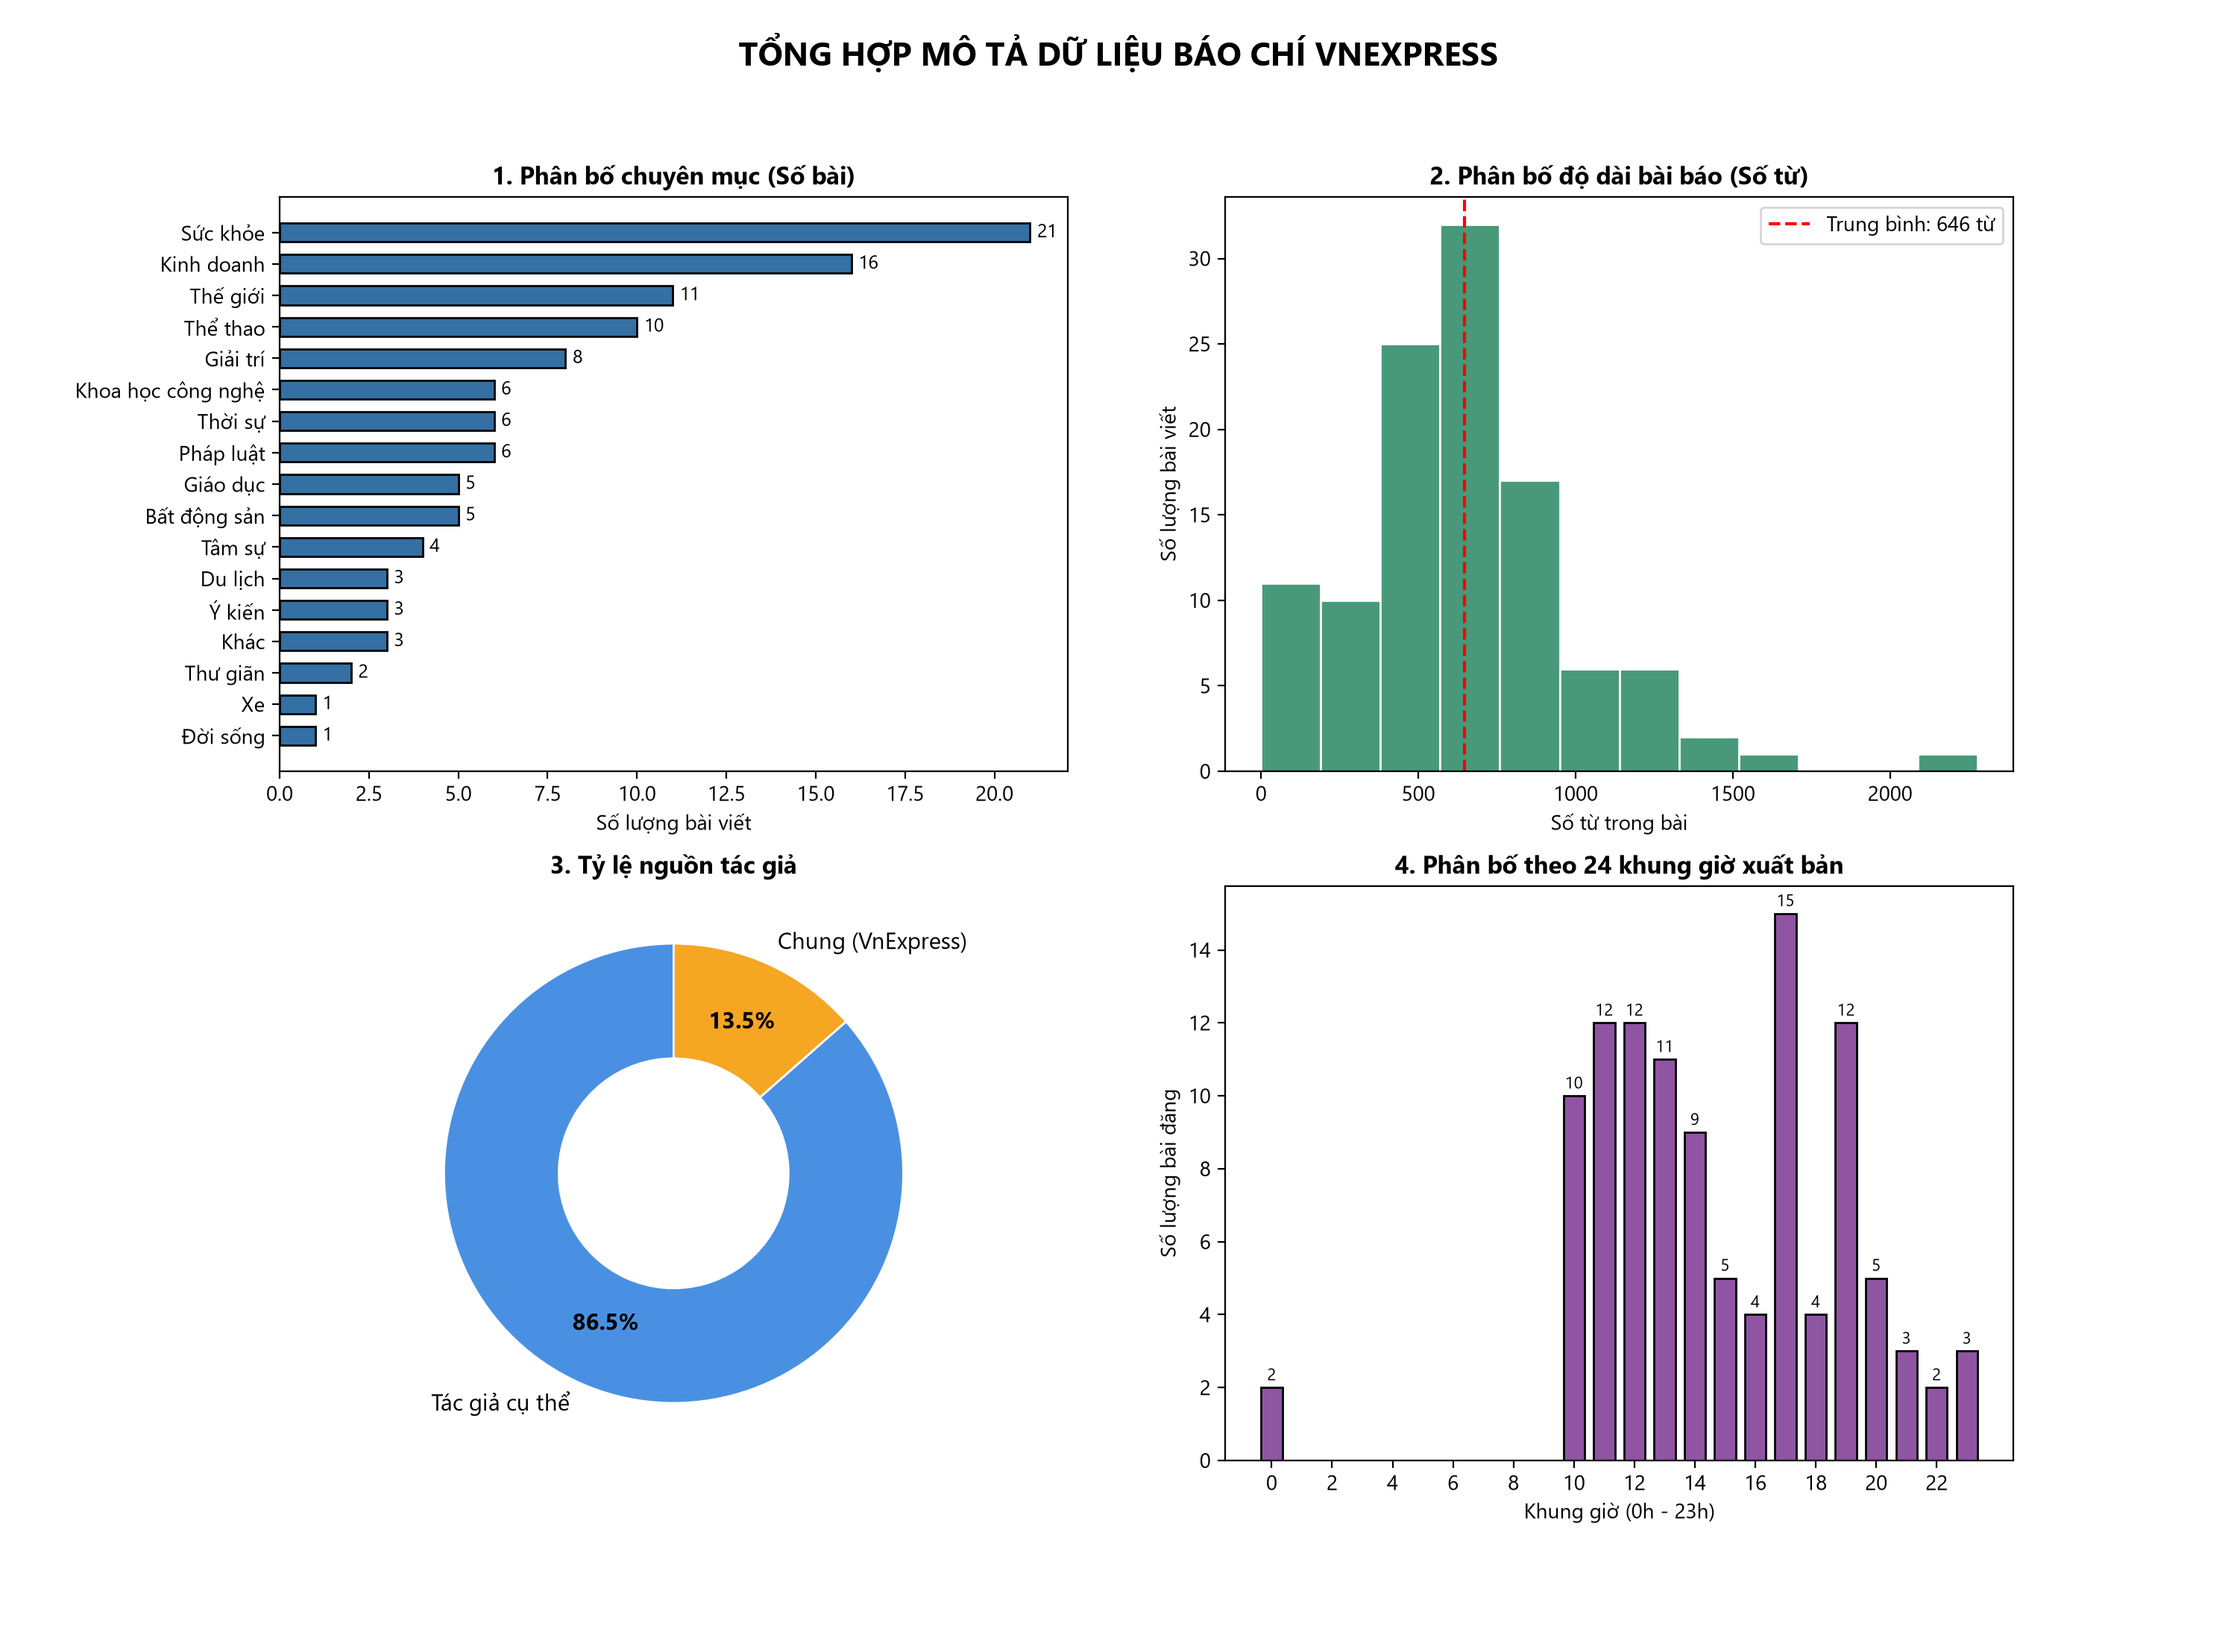
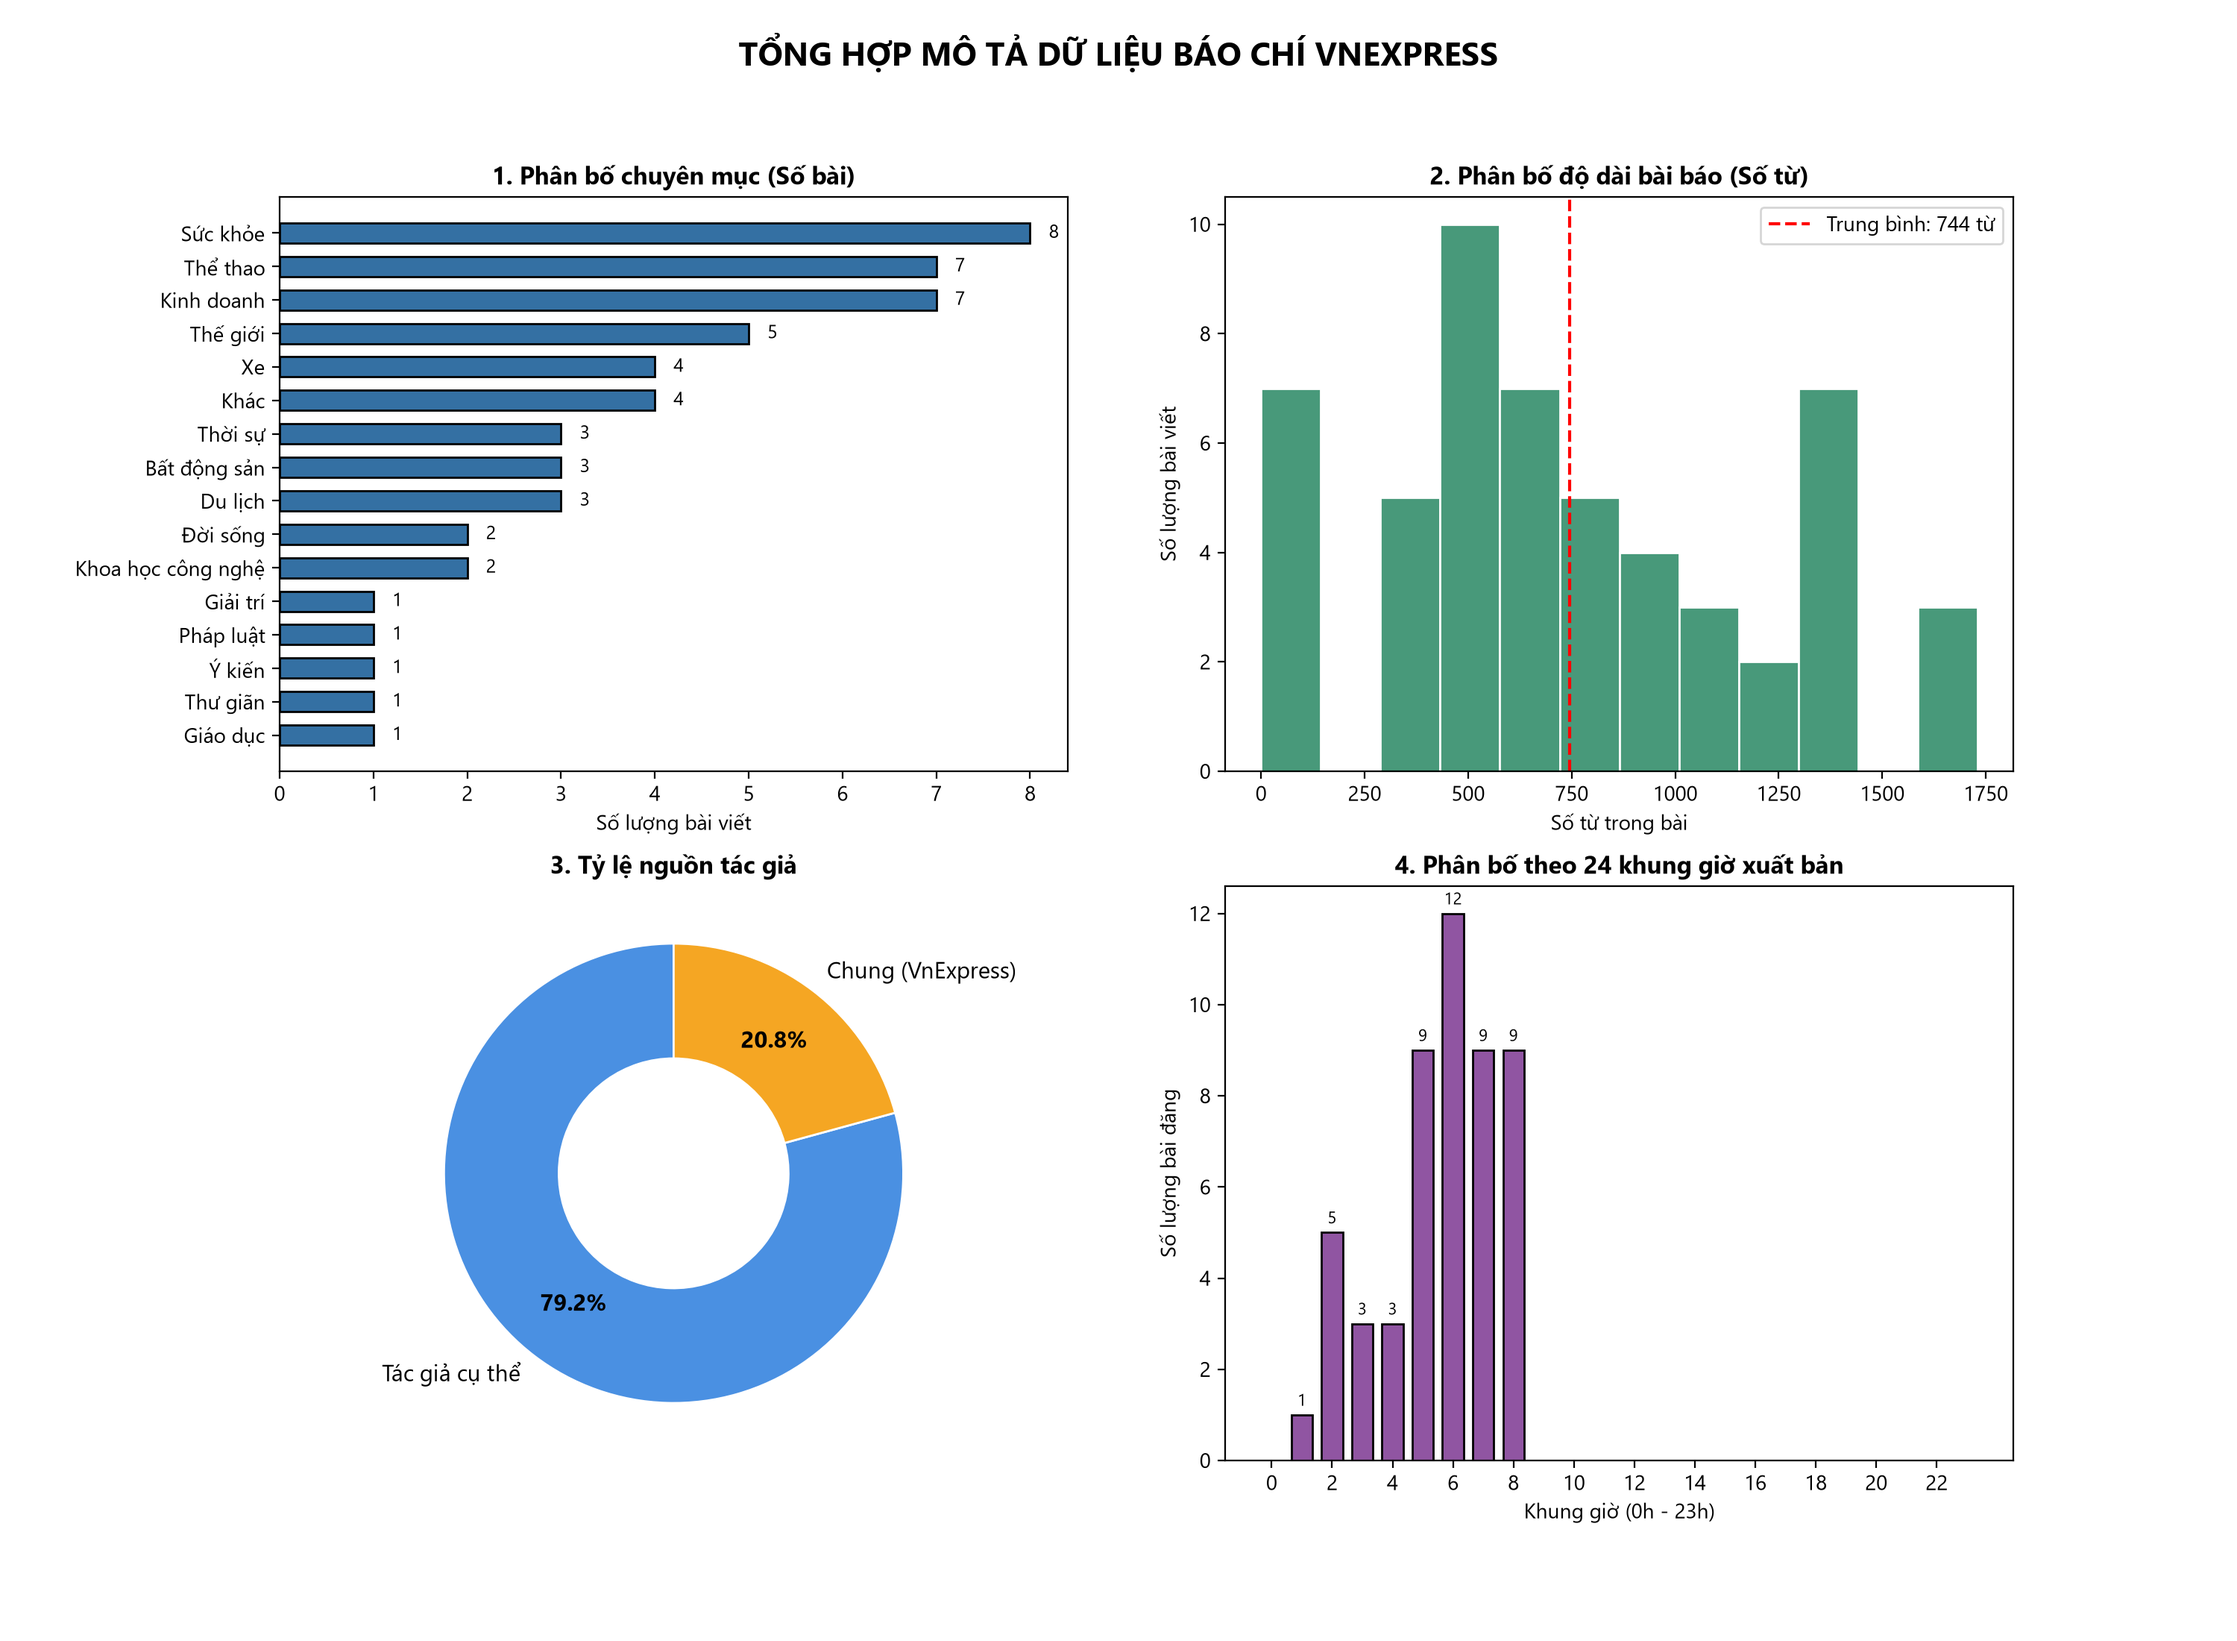
fix: parse publish time from VnExpress date string correctly
normalize_datetime now extracts the day and the HH:mm separately so the
comma and "(GMT+7)" suffix in strings like "Thu, 17/10/2026, 23:37 (GMT+7)"
no longer drop the time (was defaulting to 00:00). Re-tested full pipeline:
the 24-hour distribution chart now shows a real spread. README updated with
the parsing detail and a note to recreate the table (DATETIME) when upgrading.

diff --git a/Web crawler/Webcrawler.py b/Web crawler/Webcrawler.py
@@ -56,16 +56,15 @@ def is_allowed(url, disallow):
 def normalize_datetime(raw):
     if not raw:
         return None
-    m = re.search(r"\d{1,2}/\d{1,2}/\d{4}(?:\s+\d{1,2}:\d{2}(?::\d{2})?)?", raw)
-    if not m:
+    dm = re.search(r"\d{1,2}/\d{1,2}/\d{4}", raw)          # ngày: 17/10/2026
+    if not dm:
         return None
-    s = m.group(0).strip()
-    for fmt in ("%d/%m/%Y %H:%M:%S", "%d/%m/%Y %H:%M", "%d/%m/%Y"):
-        try:
-            return datetime.strptime(s, fmt).strftime("%Y-%m-%d %H:%M:%S")
-        except ValueError:
-            continue
-    return None
+    dt = datetime.strptime(dm.group(0), "%d/%m/%Y")
+    tm = re.search(r"\d{1,2}:\d{2}", raw)                   # giờ: 23:37 (bỏ qua dấu phẩy/GMT)
+    if tm:
+        h, m = map(int, tm.group(0).split(":"))
+        dt = dt.replace(hour=h, minute=m)
+    return dt.strftime("%Y-%m-%d %H:%M:%S")
 
 #Bóc các đoạn văn nội dung, thử nhiều selector dự phòng nếu markup VnExpress thay đổi
 def extract_paragraphs(soup):
